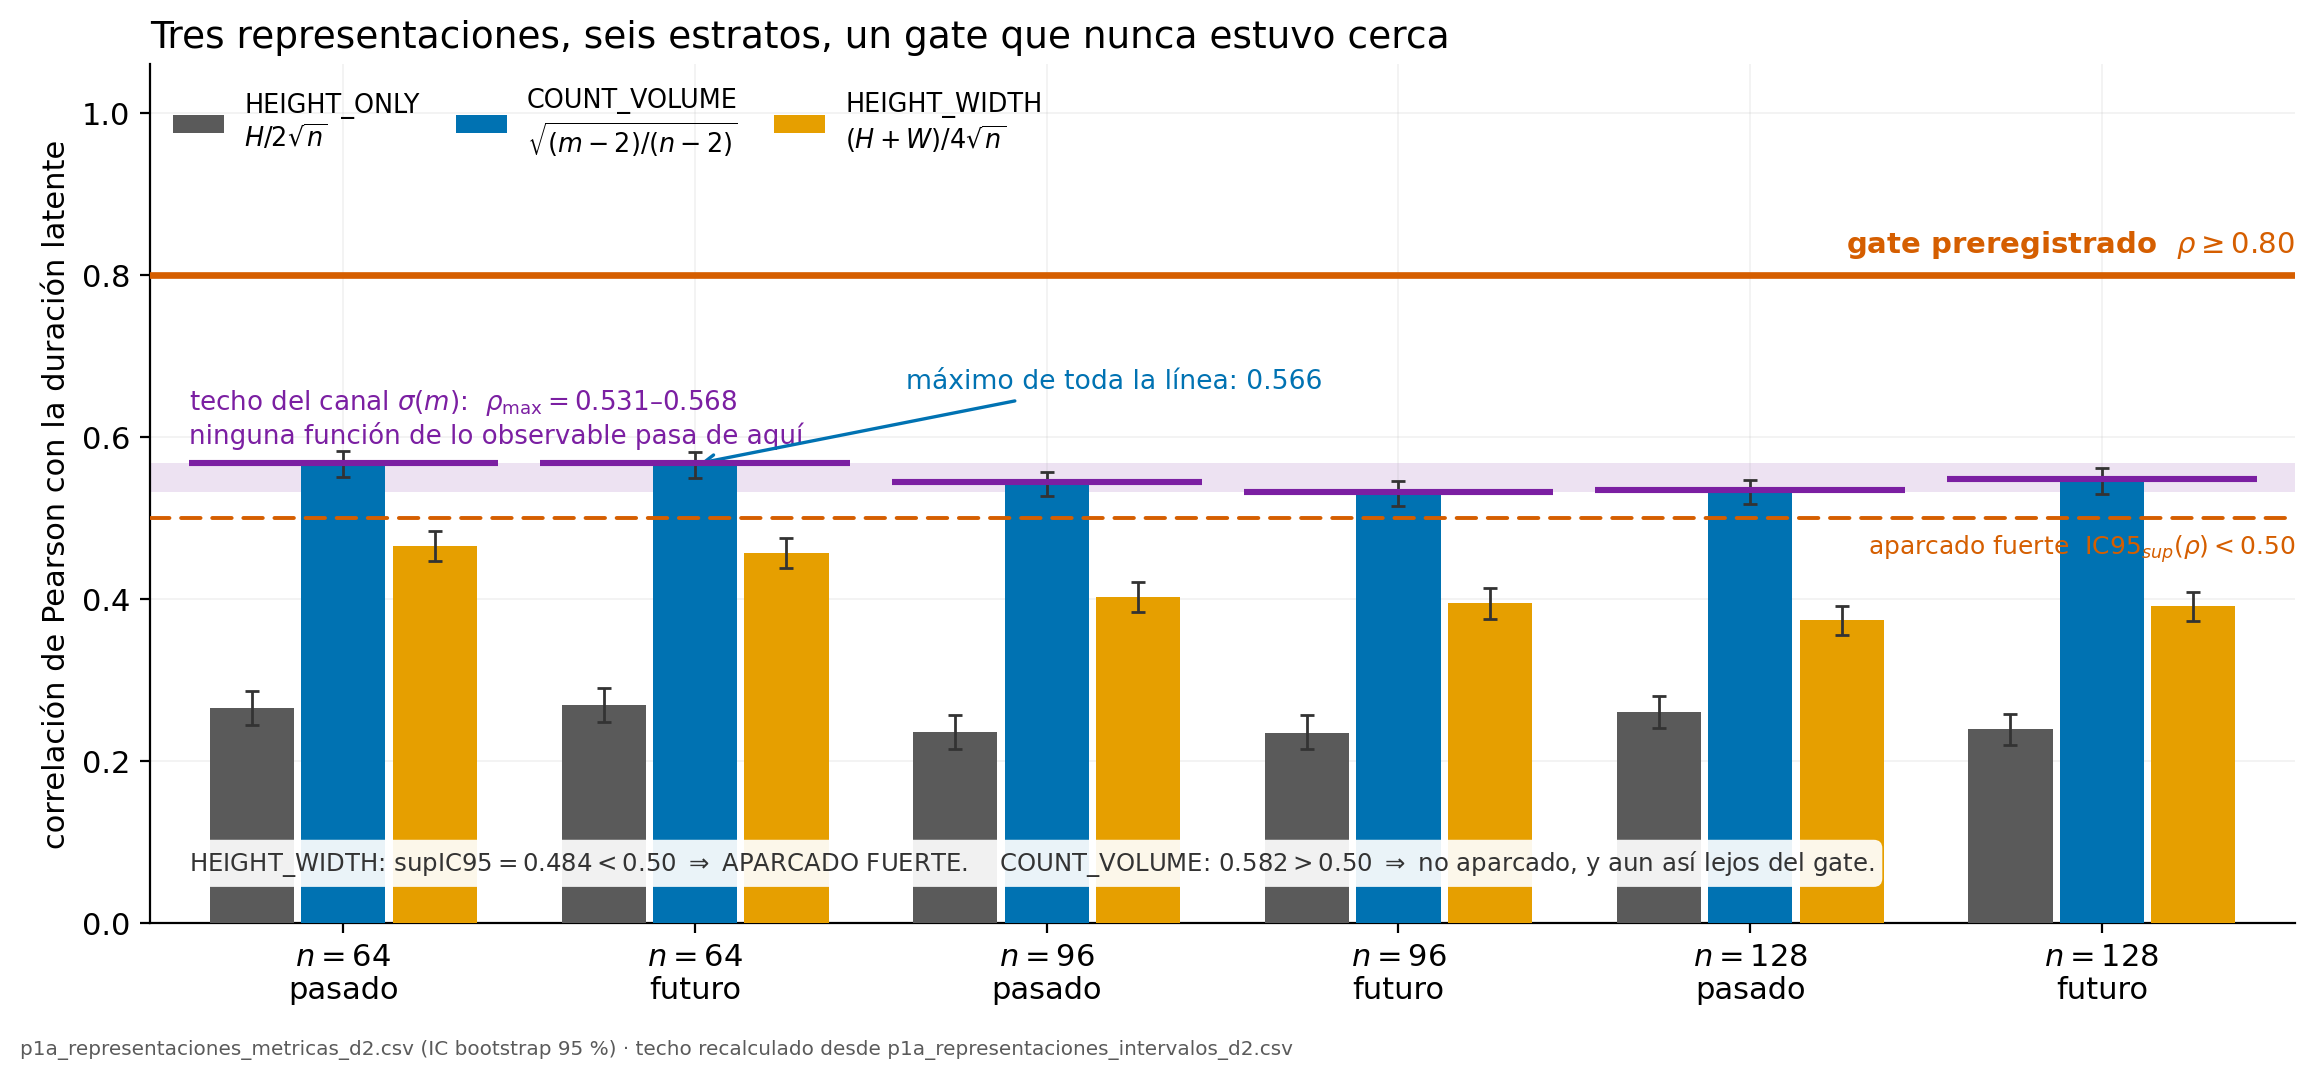
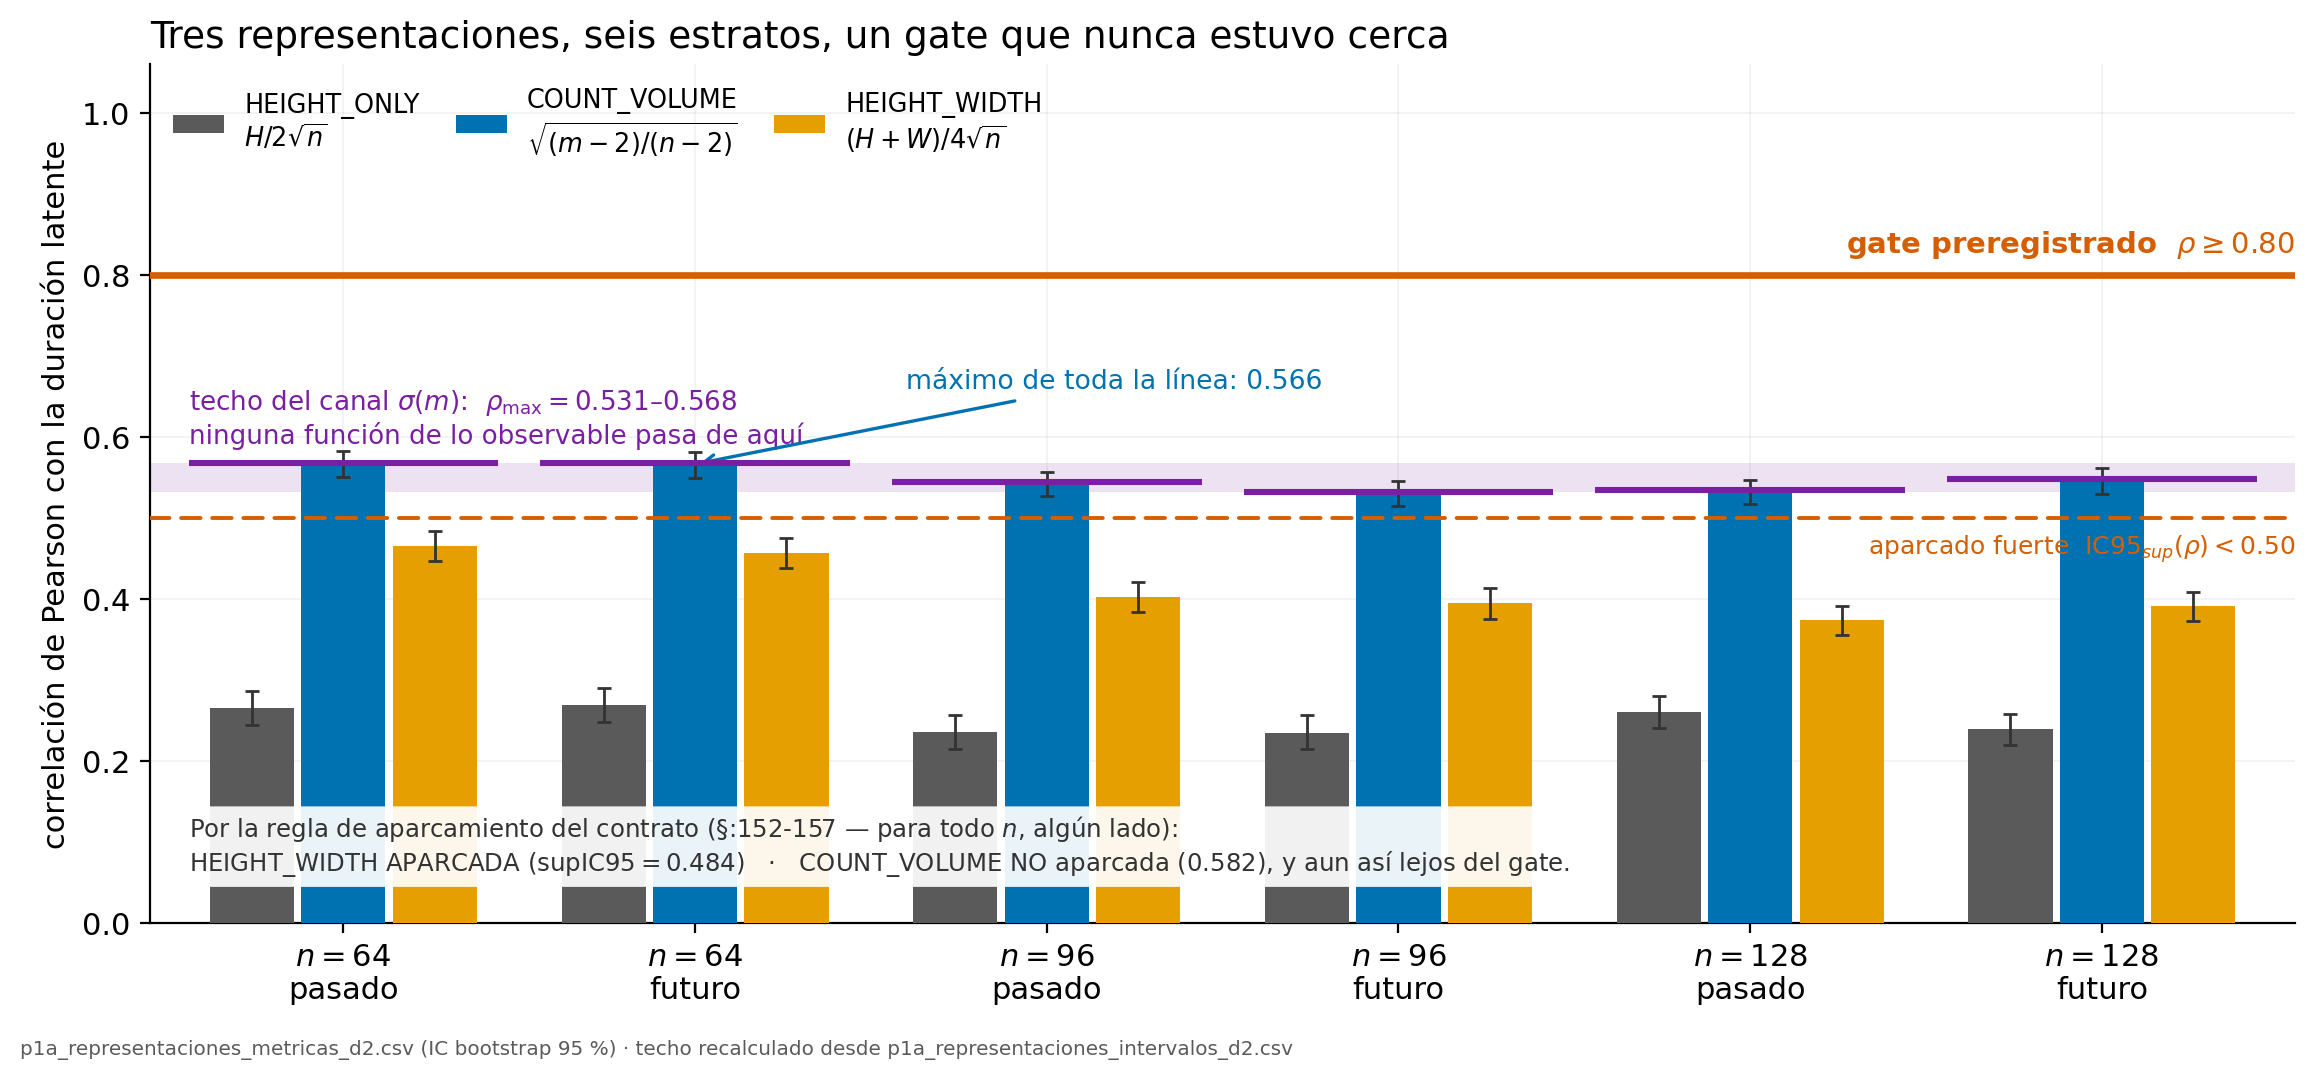
viz: el pie de fig02 atribuye el terminal a la regla, no al atajo
Tercer commit de la cadena, y cierra el unico aviso que dejo la reauditoria 034.

El commit anterior quito el atajo max(sup) < 0.50 del codigo, pero el pie dibujado
seguia justificando los terminales con el:

  HEIGHT_WIDTH: sup IC95 = 0.484 < 0.50  =>  APARCADO FUERTE
  COUNT_VOLUME: 0.582 > 0.50             =>  no aparcado

La primera implicacion es valida -- max(sup) < 0.50 implica la condicion del
contrato. La segunda NO lo es: de max(sup) > 0.50 no se sigue "no aparcada" bajo
:152-157, porque una representacion con un lado por debajo de 0.50 para cada n
seguiria aparcada. Era exactamente la inferencia que la 033 habia senalado,
sobreviviendo como RAZON en la imagen aunque el codigo ya no la cometiera.

Con estos datos la conclusion era correcta (el predicado literal la confirma) y el
guardarrail impide dibujar una conclusion falsa, asi que era defecto de etiqueta y
no de resultado. Pero un pie que ensena una inferencia invalida es la misma clase
de defecto que esta cadena lleva tres commits cerrando.

Ahora el pie atribuye los dos terminales A LA REGLA y reporta sup IC95 como
cantidad, no como criterio; las claves devueltas pasan a "aparcada (regla
:152-157)" -- el booleano que decide -- mas "sup IC95 (cantidad, no criterio)".

Controles: reejecucion byte a byte identica en las seis; solo fig02.png cambia;
12/12 en las pruebas del guardarrail; sello 6e2c3888... intacto. Registrado en
HOJA_DE_RUTA.md 22.7. Se incluye el informe 034.

Changed region(s): [[0.0933, 0.7333, 0.8397, 0.825]]

diff --git a/emergencia/viz/fig02_el_gate.py b/emergencia/viz/fig02_el_gate.py
@@ -126,12 +126,14 @@ def dibujar():
                 color=estilo.BLUE,
                 arrowprops=dict(arrowstyle="->", color=estilo.BLUE, lw=1.2))
 
-    # La distinción que la línea de 0.50 hace y que conviene leer explícita.
+    # La distinción que la línea de 0.50 hace, atribuida a la regla que la decide.
+    # El `sup IC95` se reporta como cantidad, no como razón: de `sup < 0.50` sí se
+    # sigue el aparcamiento, pero de `sup > 0.50` NO se sigue lo contrario bajo
+    # `:152-157` (auditoría 034, hallazgo 1). Quien decide es `aparcada_fuerte`.
     ax.text(-0.44, 0.055,
-            f"HEIGHT_WIDTH: $\\sup \\mathrm{{IC}}95 = {sup_max['HEIGHT_WIDTH']:.3f} < 0.50$ "
-            "$\\Rightarrow$ APARCADO FUERTE.    "
-            f"COUNT_VOLUME: ${sup_max['COUNT_VOLUME']:.3f} > 0.50$ $\\Rightarrow$ no aparcado, "
-            "y aun así lejos del gate.",
+            "Por la regla de aparcamiento del contrato (§:152-157 — para todo $n$, algún lado):\n"
+            f"HEIGHT_WIDTH APARCADA ($\\sup \\mathrm{{IC}}95 = {sup_max['HEIGHT_WIDTH']:.3f}$)   ·   "
+            f"COUNT_VOLUME NO aparcada (${sup_max['COUNT_VOLUME']:.3f}$), y aun así lejos del gate.",
             ha="left", va="bottom", fontsize=8.8, color="#333", zorder=8,
             bbox=dict(boxstyle="round,pad=0.35", facecolor="white", alpha=0.92,
                       edgecolor="none"))
@@ -147,8 +149,10 @@ def dibujar():
         "gate": datos.GATE,
         "distancia gate - mejor rho": float(datos.GATE - mejor),
         "distancia gate - techo maximo": float(datos.GATE - hi),
-        "sup IC95 HEIGHT_WIDTH (< 0.50 = aparcado)": float(sup_max["HEIGHT_WIDTH"]),
-        "sup IC95 COUNT_VOLUME (> 0.50 = no aparcado)": float(sup_max["COUNT_VOLUME"]),
+        "HEIGHT_WIDTH aparcada (regla :152-157)": aparcada["HEIGHT_WIDTH"],
+        "COUNT_VOLUME aparcada (regla :152-157)": aparcada["COUNT_VOLUME"],
+        "sup IC95 HEIGHT_WIDTH (cantidad, no criterio)": float(sup_max["HEIGHT_WIDTH"]),
+        "sup IC95 COUNT_VOLUME (cantidad, no criterio)": float(sup_max["COUNT_VOLUME"]),
     }
 
 

diff --git a/docs/auditor/auditor_report_034_emergencia-viz-cierre-avisos-033.md b/docs/auditor/auditor_report_034_emergencia-viz-cierre-avisos-033.md
@@ -1,0 +1,171 @@
+# Auditor Report 034 — emergencia-viz-cierre-avisos-033
+
+> Produced by `/auditor`. Backward-looking integrity audit: every published number, the seal, the
+> dev/validation separation, and the claim boundary are checked against reality. The auditor
+> REPORTS; it never edits the repo, never loosens a threshold, never re-runs a committing step.
+> A weaker real result beats a strong fabricated one. Sibling skill: `/comite` (forward-looking
+> deliberation).
+
+## 1. Scope & target
+
+Repo root `/home/ignac/nachocausal`, branch `emergencia/p1a-canal-sigma-m`, commit `752cf04`
+(`viz: cierra los tres avisos de la reauditoria 033`), parent `ec51f44`, grandparent `c87d302`.
+Working tree clean.
+
+**Focused re-audit**, scope fixed by the user: verify only the closure of the three warnings of
+`docs/auditor/auditor_report_033_emergencia-viz-remediacion-032-reauditoria.md` — the
+`|Delta_B|` bound, the literal parking predicate with tests in both directions, and the
+qualification notes in §16/§18 — plus absence of regression in what report 033 already closed.
+The 23 pre-existing mechanical warnings are **out of scope**.
+
+Same declared deviation as report 033: §7 counts only findings inside this scope. Report 032
+remains the repo-wide record for the 23.
+
+## 2. Mechanical audit
+
+`bash .claude/skills/auditor/audit.sh` — exit code `0`. Tail, verbatim:
+
+```text
+WARN: committed data file with no generator reference: evidence/new_geometry_20260719/mink_control_metrics.csv
+----------------------------------------
+Auditor: 0 error(s), 23 warning(s)
+```
+
+Unchanged from reports 032 and 033: `0 errors, 23 warnings`, none under `emergencia/` or
+`tests/`. Adding `tests/test_emergencia_viz.py` introduced no mechanical finding.
+
+## 3. Seal & freeze integrity
+
+```text
+$ make verify-seal
+thresholds.py sha256: 6e2c38881234cef48e859096b46f261cfa83ea8a2f6c955cc1dbc42537bfefd4
+```
+
+Matches `docs/preregistration_002.md:8` and `docs/preregistration_003.md:9`. `752cf04` touches
+nothing under `nachocausal/`. No drift.
+
+## 4. Reproducibility of published numbers
+
+**4.1 Warning 1 — CLOSED, and the new bound is sustainable.** `|Delta_B| < 0.00071` is gone from
+every live claim. Recomputed here: propagating the `±5e-5` rounding of the 4-decimal `T_corr`
+through `Delta_B = sqrt(1 - T_corr) - rho_obs` gives a worst case of `0.000747` at `(64, PAST)`;
+the published bound is now `0.0008`, leaving a margin of `5.29e-05`. `rho_obs` carries no
+comparable rounding — it is computed at full precision from the sealed CSV — so `0.000747` is the
+true worst case and the bound holds. Present at all three sites:
+`emergencia/viz/README.md:126`, `emergencia/HOJA_DE_RUTA.md:1167`,
+`emergencia/viz/fig04_anatomia_del_error.py:171`. Both surviving mentions of `0.00071`
+(`README.md:125`, `HOJA_DE_RUTA.md:1174`) are explicit historical notes explaining the change,
+not live claims. The interval `-0.000045`…`+0.000703` is now labelled "evaluación puntual a la
+precisión de la entrada", not a certified interval.
+
+**4.2 Warning 2 — CLOSED in code, and the tests bind it.** `emergencia/viz/datos.py`
+`aparcada_fuerte` implements the contract verbatim — read side by side with
+`P1a_contrato_representaciones_alternativas_d2.md:152-157`, the quantifiers ("para todo `n`", "al
+menos un lado") and **both** disjuncts (`pearson_bootstrap95_high < 0.50`,
+`median_are_bootstrap95_low > 0.50`) are present and the column mapping is correct.
+`fig02_el_gate.py:91` calls it instead of the `max(sup)` shortcut.
+
+The decisive check is not that the tests pass but that they **would fail if the implementation
+regressed**. Two mutants were injected and reverted (working tree verified clean afterwards):
+
+| mutant | result |
+| --- | --- |
+| restore the old shortcut `max(sup) < 0.50` | `3 failed, 9 passed` — **caught** |
+| always return `True` (parks everything) | `2 failed, 10 passed` — **caught** |
+
+Both directions are therefore genuinely bound, as the remediation instruction required.
+`tests/test_emergencia_viz.py` has 12 cases including the case that separates the two predicates
+(`test_el_atajo_daba_un_falso_negativo_y_el_predicado_no`), the second disjunct in isolation, the
+"para todo `n`" quantifier, and an absent representation raising rather than silently returning
+`False`.
+
+**4.3 Warning 3 — CLOSED without rewriting the record.** `git diff ec51f44 752cf04 --
+emergencia/HOJA_DE_RUTA.md` shows the §16 and §18 hunks as `+8` lines each with **zero
+deletions**: the historical sentences at `:662` and `:747` are intact and each now carries a
+blockquote pointing to the `Delta_A` / `Delta_B` distinction of §22.4 and the `0.0008` bound.
+The only deleted lines in the whole diff belong to §22.4/§22.5 and the stale control token — the
+material this commit is supposed to update.
+
+**4.4 Regression — clean.** Full battery `python3 -m pytest tests/ -q`: **341 passed** (329
+pre-existing + 12 new), no failures. `git diff --stat ec51f44 752cf04 --
+emergencia/viz/output/` shows exactly one PNG changed (`fig04`, the footnote); `fig02.png` is
+byte-identical, which is the correct outcome — the predicate change is logical, not visual.
+Re-running `hacer_figuras.py` reproduces all six byte-identically. Everything report 033 closed
+still holds: `0.50` drawn (`fig02_el_gate.py:99`), sealed terminals reproduced, `fig06` count
+self-checked, SHA-256 guardrail firing (covered by `test_el_guardarrail_sha256_salta`).
+
+## 5. dev/validation separation & ground-truth leakage
+
+Unchanged and re-checked. `752cf04` adds no RNG call and no write path; the new test file is
+read-only over `emergencia/resultados/` and `tmp_path`. The reserved seed band
+`[2000000, 2999999]` (`docs/program_closure_note_2026-07-30.md:136`) is untouched. Ground truth
+still appears only as the ANOVA response.
+
+## 6. Claim-boundary check
+
+No over-claim introduced; the two negations in `hacer_figuras.py:11` and `README.md:5` are
+unchanged. §22.6 describes the remediation without inflating it, and states plainly that on the
+sealed sample the two predicates agree `3/3` so **no terminal changed** — which is the honest
+framing of a fix that is about future validity, not about today's result.
+
+**Finding 1 — WARN. The figure's drawn justification still states the invalid implication that
+the code no longer commits.** `emergencia/viz/fig02_el_gate.py:130-135` prints inside the panel:
+
+```text
+HEIGHT_WIDTH: sup IC95 = 0.484 < 0.50  =>  APARCADO FUERTE.
+COUNT_VOLUME: 0.582 > 0.50  =>  no aparcado, y aun así lejos del gate.
+```
+
+and `:150-151` returns the keys `"sup IC95 HEIGHT_WIDTH (< 0.50 = aparcado)"` /
+`"sup IC95 COUNT_VOLUME (> 0.50 = no aparcado)"`. The first implication is sound —
+`max(sup) < 0.50` implies the contract's condition. **The second is not**: `max(sup) > 0.50` does
+not entail "no aparcada" under `:152-157`, since a representation with one side below `0.50` for
+every `n` would still be parked. That is precisely the unsound inference report 033 flagged, now
+surviving as the *stated reason* in the image and in the printed diagnostics, even though the
+code beneath computes the correct predicate and would abort on disagreement.
+
+The drawn conclusion is not wrong for this data (the literal predicate confirms both terminals,
+and the guardrail makes a figure with a wrong conclusion unproducible), so this is a labelling
+defect, not a false result. But a caption that teaches an invalid inference is the same class of
+defect this chain has been closing since report 032, and the fix is one line.
+
+## 7. Findings
+
+| # | Severity | Finding | Anchor (file:line / command) |
+| --- | --- | --- | --- |
+| 1 | WARN | `fig02`'s in-panel text and returned keys justify the terminals by `sup ≷ 0.50`; the "`0.582 > 0.50` ⇒ no aparcado" half is not a valid inference under the contract, though the conclusion holds here and the code uses the correct predicate | `emergencia/viz/fig02_el_gate.py:130-135`, `:150-151` vs `P1a_contrato_representaciones_alternativas_d2.md:152-157` |
+| 2 | OK | Warning 1 closed: `\|Delta_B\| < 0.0008` at all three sites; worst case `0.000747`, margin `5.29e-05`; interval relabelled a point evaluation | `viz/README.md:126`, `HOJA_DE_RUTA.md:1167`, `fig04_anatomia_del_error.py:171`; §4.1 |
+| 3 | OK | Warning 2 closed in code: `aparcada_fuerte` implements both disjuncts and both quantifiers, column mapping correct; `fig02` calls it | `emergencia/viz/datos.py` `aparcada_fuerte`; `fig02_el_gate.py:91`; contract `:152-157` |
+| 4 | OK | The tests genuinely bind the predicate: shortcut mutant → `3 failed`, always-parked mutant → `2 failed`; tree restored clean | §4.2; `tests/test_emergencia_viz.py` (12 cases) |
+| 5 | OK | Warning 3 closed without rewriting: §16/§18 hunks are `+8/-0`, historical text intact, notes point to §22.4 | `git diff ec51f44 752cf04 -- emergencia/HOJA_DE_RUTA.md`; `:662`, `:747` |
+| 6 | OK | No regression: 341 tests pass; only `fig04.png` changed; all six figures reproduce byte-identically; `fig02.png` unchanged as expected | §4.4 |
+| 7 | OK | Seal `6e2c3888…` intact, no new mechanical finding, seed band untouched, ground truth scoring-only, no over-claim | §2, §3, §5, §6 |
+
+AUDIT_ERRORS=0
+AUDIT_WARNINGS=1
+
+## 8. Verdict
+
+One of: `AUDIT_PASS` (no errors, no warnings), `AUDIT_PASS_WITH_WARNINGS` (no errors, ≥1 warning),
+`AUDIT_FAIL` (≥1 error). Must match the counts in §7.
+AUDIT_VERDICT=AUDIT_PASS_WITH_WARNINGS
+
+The three warnings of report 033 are closed. The bound is now sustainable with a stated margin;
+the parking predicate is the contract's, verbatim, and mutation testing confirms the test suite
+would catch a regression in either direction; §16 and §18 are annotated without a single line of
+historical record removed. No regression anywhere — 341 tests pass and only the one expected PNG
+changed.
+
+One warning remains, and it is the residue of the warning just fixed: the code stopped committing
+the unsound inference but the caption still prints it. Recommended remediation — **not applied;
+the user's call**:
+
+1. In `fig02_el_gate.py:130-135`, justify the two terminals by the predicate the code actually
+   evaluates — e.g. state `HEIGHT_WIDTH` parked / `COUNT_VOLUME` not parked *por la regla
+   `:152-157`*, keeping `sup IC95` as the reported quantity rather than as the stated reason —
+   and rename the two returned keys accordingly.
+2. Regenerate `fig02.png` (it will change this time) and re-verify byte-identity.
+
+This is a caption-level fix over an otherwise clean state. Whether it is worth another commit
+before pushing, or is better folded into the next change, is a judgement for the user; nothing in
+the current tree is scientifically wrong.

diff --git a/emergencia/HOJA_DE_RUTA.md b/emergencia/HOJA_DE_RUTA.md
@@ -1234,6 +1234,25 @@ decía «no aparcada» y el contrato dice «aparcada»), el **segundo disyunto**
 cuantificador «para todo `n`», el terminal sellado, el guardarraíl SHA-256, el ANOVA
 contra el ejecutable auditado y el recuento de `fig06`.
 
+### 22.7 Cierre del residuo, tras la reauditoría 034 (2026-08-07)
+
+`docs/auditor/auditor_report_034_...md` cerró los tres avisos de la 033
+(`AUDIT_PASS_WITH_WARNINGS`, 0 errores) y dejó **uno**, que era el residuo del que
+acababa de repararse: el código había dejado de cometer la inferencia inválida, pero
+el pie dibujado en `fig02` seguía imprimiéndola —«`0.582 > 0.50` ⟹ no aparcado»—, que
+no se sigue de `:152-157`. La conclusión era correcta con estos datos y el
+guardarraíl impedía dibujar una falsa, pero el motivo que daba el rótulo no era el
+del contrato.
+
+Reparado: el pie atribuye ahora los dos terminales **a la regla** y reporta
+`sup IC95` como cantidad, no como criterio; las dos claves devueltas pasan a
+`aparcada (regla :152-157)` —el booleano que decide— más `sup IC95 (cantidad, no
+criterio)`. Regenerado sólo `fig02.png`.
+
+Con esto el material queda sin hallazgos abiertos dentro de su alcance: un error y
+cuatro avisos localizados y cerrados en tres commits, con el rastro completo en
+`docs/auditor/` 032, 033 y 034.
+
 ```text
 P1A_FAILURE_FIGURES = READY_SIX_FIGURES_SPANISH_COMMITTED
 FIGURES_SOURCE = SEALED_CSVS_ONLY_NO_NEW_STOCHASTIC_DATA
@@ -1258,4 +1277,7 @@ PARKING_PREDICATE = CONTRACT_LITERAL_BOTH_DISJUNCTS_NOT_MAX_SHORTCUT
 PARKING_PREDICATE_TESTS = 12_CASES_INCLUDING_SHORTCUT_FALSE_NEGATIVE
 DELTA_B_BOUND = ABS_LT_0.0008_INPUT_PRECISION_LIMITED
 SECTIONS_16_18 = HISTORICAL_RECORD_ANNOTATED_NOT_REWRITTEN
+AUDIT_034_VERDICT = AUDIT_PASS_WITH_WARNINGS (0 errores, 1 aviso)
+AUDIT_034_REMEDIATION = APPLIED_CAPTION_ATTRIBUTES_THE_RULE_NOT_THE_PROXY
+AUDIT_CHAIN = 032_FAIL -> 033_PASS_W -> 034_PASS_W -> residuo cerrado
 ```
